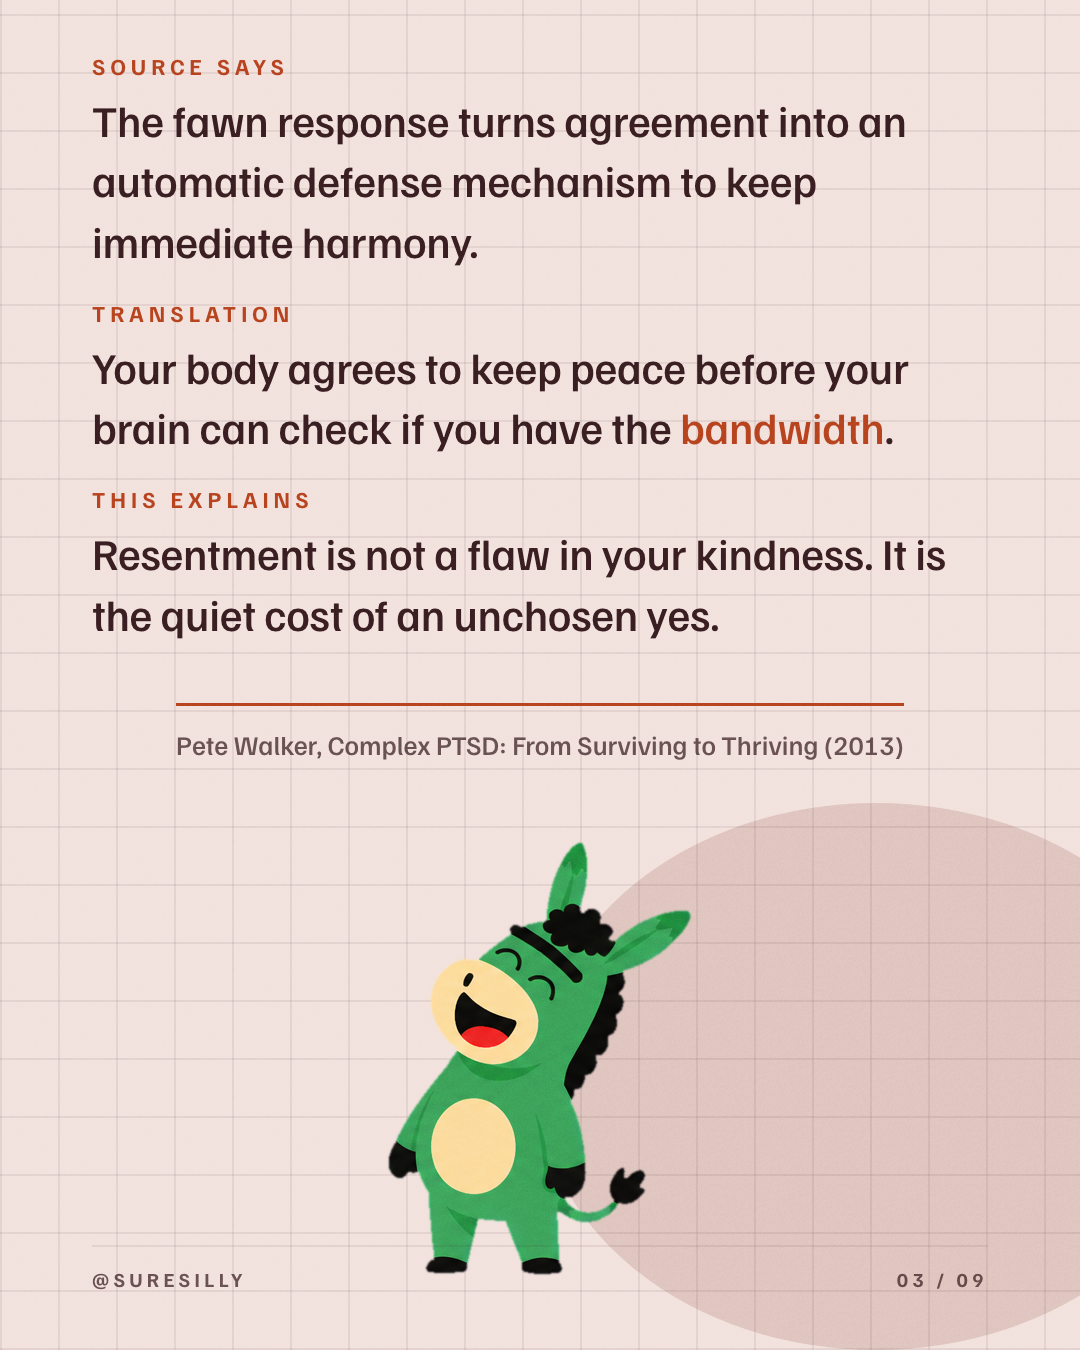
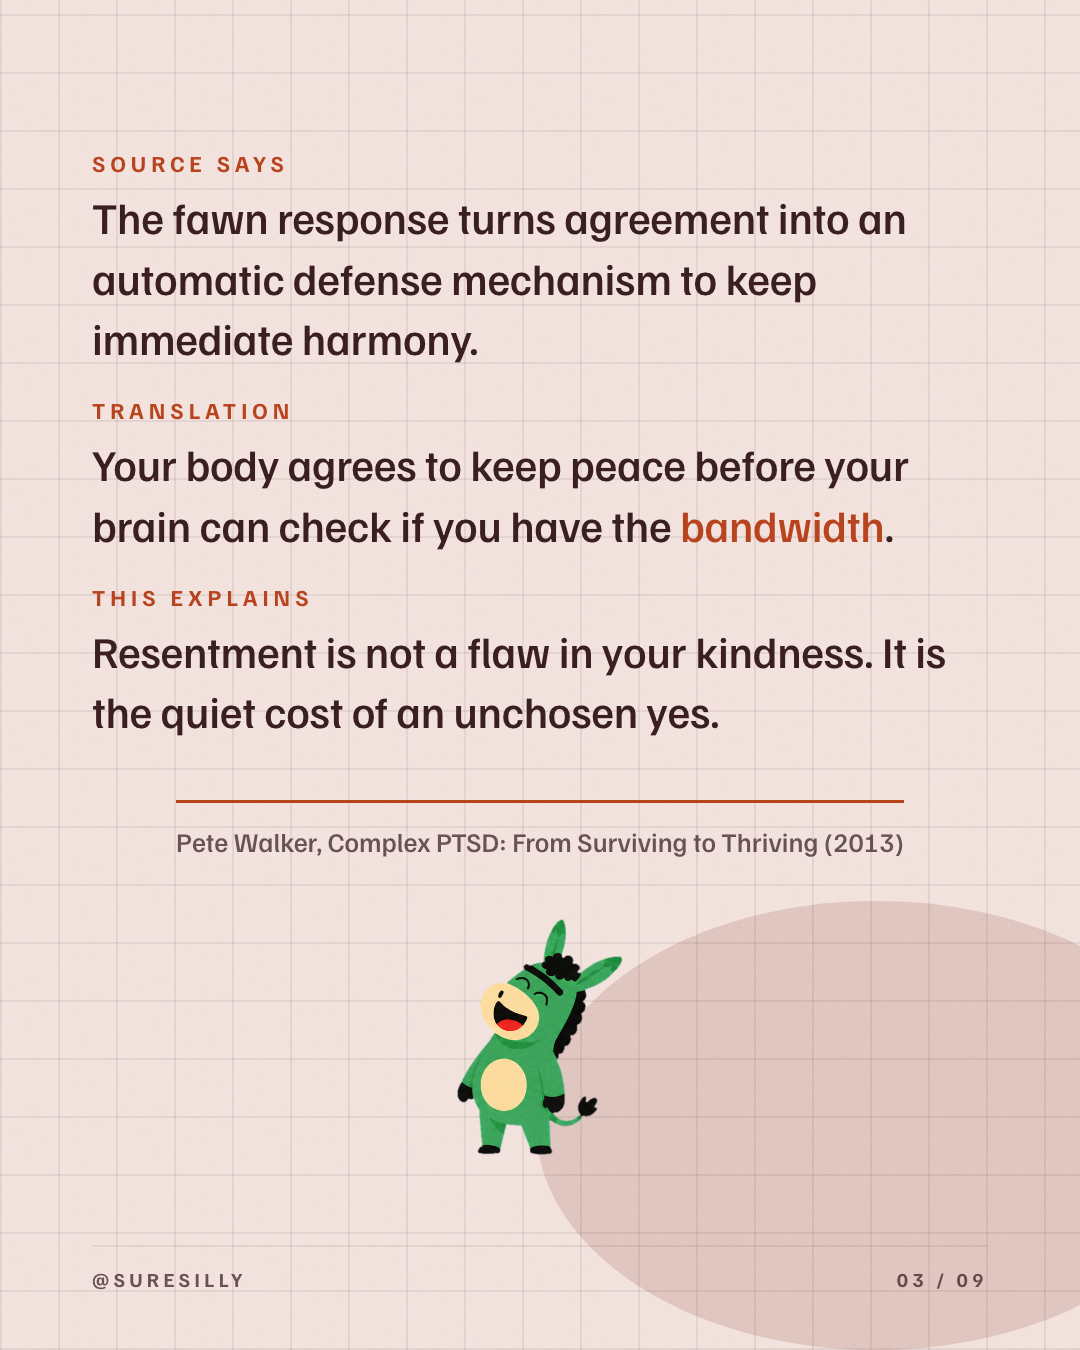
refactor: update carousel layout engine with canvas padding constants and refined mascot shrinking logic

Changed region(s): [[0.0611, 0.0311, 0.8861, 0.56], [0.1833, 0.5911, 1.0, 0.9956], [0.9472, 0.9644, 1.0, 0.9956]]

diff --git a/.agents/skills/suresilly-carousel/scripts/render.py b/.agents/skills/suresilly-carousel/scripts/render.py
@@ -37,6 +37,15 @@ MARGIN = 92
 FOOTER_H = 132
 RULE_Y = 96
 BANNER_MAX_H = 380
+# Minimum internal breathing room — guarantees the type block never kisses
+# the viewport edge, even when FIT_FIGURE centers short copy. Applied as
+# padding inside .canvas so getBoundingClientRect() measurements stay true.
+CANVAS_PAD_TOP = 36
+CANVAS_PAD_BOTTOM = 36
+# Source slides carry a dense 3-block stack (kicker + line ×3 + credit) and
+# need a touch more headroom than a regular value slide. This is the *total*
+# top padding for source (not additive to CANVAS_PAD_TOP).
+SOURCE_PAD_TOP = 56
 # ── The type scale. Fixed, and identical on every slide of every carousel.
 #
 # It used to auto-fit: each slide shrank its own text until the copy fitted, so
@@ -645,8 +654,9 @@ body{{background:{t['ground']};color:{t['ink']};position:relative;overflow:hidde
   background-image:url({{GRAIN}});background-size:128px 128px;mix-blend-mode:overlay}}
 
 .canvas{{position:absolute;left:{MARGIN}px;right:{MARGIN}px;top:{MARGIN}px;bottom:{FOOTER_H+12}px;
-  z-index:5;display:flex;flex-direction:column;justify-content:center;gap:28px;align-items:center;}}
-.canvas.source-pad{{padding-top:32px}}
+  z-index:5;display:flex;flex-direction:column;justify-content:center;gap:28px;align-items:center;
+  padding-top:{CANVAS_PAD_TOP}px;padding-bottom:{CANVAS_PAD_BOTTOM}px;}}
+.canvas.source-pad{{padding-top:{SOURCE_PAD_TOP}px;justify-content:flex-start}}
 /* With no figure the copy owns the slide and is centred in it. Spreading the
    blocks apart with space-between only moved the void into the middle, which
    looks broken rather than composed. */
@@ -993,19 +1003,22 @@ FIT_FIGURE = """(cfg) => {
   }
   // Inline mascot (flex child inside canvas) — fixed 460px, no dynamic room calc
   if (fig && fig.classList.contains('mascot-inline')) {
-    const canvas = fig.closest('.canvas');
-    if (canvas) {
-      const cb = canvas.getBoundingClientRect().bottom;
-      const limit = cfg.pageH - cfg.footerH - 8;
-      if (cb > limit) {
-        const over = Math.round(cb - limit);
-        const curH = fig.getBoundingClientRect().height;
-        const newH = Math.max(320, Math.round(curH - over - 16));
+    const limit = cfg.pageH - cfg.footerH - 8;
+    let fb = fig.getBoundingClientRect().bottom;
+    if (fb > limit) {
+      const over = Math.round(fb - limit);
+      const curH = fig.getBoundingClientRect().height;
+      let newH = Math.max(240, Math.round(curH - over - 16));
+      fig.style.height = newH + 'px';
+      fb = fig.getBoundingClientRect().bottom;
+      if (fb > limit) {
+        const over2 = Math.round(fb - limit);
+        newH = Math.max(180, Math.round(newH - over2 - 8));
         fig.style.height = newH + 'px';
-        out.figure = newH;
-        out.field = 'inline-shrunk';
-        return out;
       }
+      out.figure = parseInt(fig.style.height, 10);
+      out.field = 'inline-shrunk';
+      return out;
     }
     out.figure = fig.getBoundingClientRect().height;
     return out;
@@ -1077,10 +1090,16 @@ def render(md_path: Path, mascots: dict[int, Path], out_dir: Path,
                 sys.exit(f"ERROR: font(s) failed to load: {', '.join(missing)}.\n"
                          f"Slides would silently render in a fallback face — aborting.\n"
                          f"Check assets/fonts/ contains valid TrueType files.")
+            # Per-slide effective top accounts for the minimum canvas padding
+            # (SOURCE_PAD_TOP vs CANVAS_PAD_TOP). Bottom is factored via an
+            # effective footer that includes the canvas bottom inset + inner pad.
+            _is_src = "source" in s.get("role", "") or s.get("layout", "").startswith("Template F")
+            _top_eff = MARGIN + (SOURCE_PAD_TOP if _is_src else CANVAS_PAD_TOP)
+            _footer_eff = FOOTER_H + 12 + CANVAS_PAD_BOTTOM
             fit = page.evaluate(FIT_FIGURE, {
                 "pageH": H, "pageW": W, "margin": MARGIN,
-                "footerH": FOOTER_H, "gap": 22, "top": MARGIN,
-                "clear": 40, "copyMaxY": MARGIN + COPY_MAX_H,
+                "footerH": _footer_eff, "gap": 22, "top": _top_eff,
+                "clear": 40, "copyMaxY": _top_eff + COPY_MAX_H,
                 "min": MASCOT_MIN, "max": MASCOT_MAX})
             if verbose and fit["figure"] == 0:
                 textonly.append(i)
